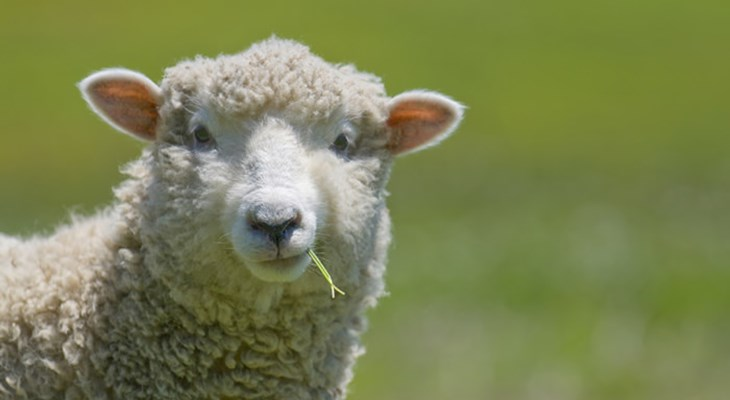
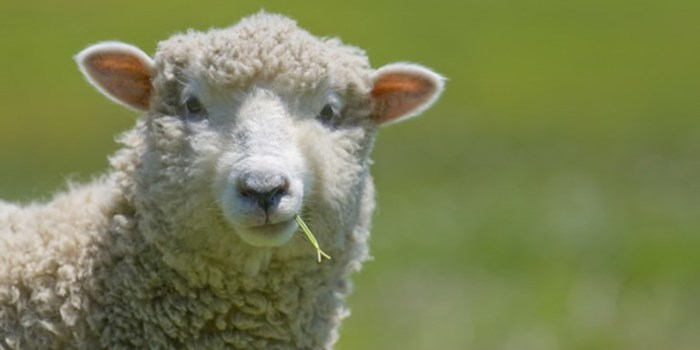
feat: add header
Add header block. Refactor code, change desing

diff --git a/src/components/Game/components/letter.jsx b/src/components/Game/components/letter.jsx
@@ -4,11 +4,11 @@ import { Draggable } from 'react-beautiful-dnd';
 
 const Container = styled.div`
   padding: 8px;
-  border: 3px solid lightgrey;
+  border: 3px solid #f3727b;
   border-radius: 50%;
   &:focus {
     outline: none;
-    border-color: red;
+    border-color: lightgreen;
   }
 
   background-color: ${props => (props.isDragging ? 'lightgreen' : 'white')};
@@ -18,6 +18,9 @@ const Container = styled.div`
   display: flex;
   justify-content: center;
   align-items: center;
+
+  font-weight: 900;
+  font-size: 20px;
 `;
 
 export default class Letter extends React.Component {
@@ -25,16 +28,14 @@ export default class Letter extends React.Component {
     return (
       <Draggable draggableId={this.props.letter.id} index={this.props.index}>
         {(provided, snapshot) => (
-          <div style={{marginLeft: this.props.letter.width + 'vw', marginRight: this.props.letter.width + 'vw' }}>
-            <Container
-              {...provided.draggableProps}
-              {...provided.dragHandleProps}
-              ref={provided.innerRef}
-              isDragging={snapshot.isDragging}
-            >
-              {this.props.letter.content}
-            </Container>
-          </div>
+          <Container
+            {...provided.draggableProps}
+            {...provided.dragHandleProps}
+            ref={provided.innerRef}
+            isDragging={snapshot.isDragging}
+          >
+            {this.props.letter.content}
+          </Container>
         )}
       </Draggable>
     );

diff --git a/src/components/Game/Game.jsx b/src/components/Game/Game.jsx
@@ -17,6 +17,11 @@ const GameBlock = styled.div`
   align-items: center;
 `;
 
+const ImageBlock = styled.div`
+  border: 12px solid #f3727b;
+  height: 120px;
+`;
+
 export class Game extends React.Component {
   state = initialData
   imageState = ImagesData
@@ -99,7 +104,9 @@ export class Game extends React.Component {
   render() {
     return (
       <GameBlock>
-        <div><img width='240px' src={this.imageState.images.sheep.source} alt={this.imageState.images.sheep.title}></img></div>
+        <ImageBlock>
+          <img width='243px' src={this.imageState.images.sheep.source} alt={this.imageState.images.sheep.title} />
+        </ImageBlock>
         <DragDropContext onDragStart={this.onDragStart} onDragEnd={this.onDragEnd}>
           <Container>
             {this.state.columnOrder.map((columnId) => {

diff --git a/src/components/Header/Header.jsx b/src/components/Header/Header.jsx
@@ -1,0 +1,28 @@
+import React from 'react';
+import styled from 'styled-components'
+import gameLogo from '../assets/images/game-logo.jpg'
+
+const HeaderBlock = styled.div`
+  display: flex;
+  flex-direction: row;
+  justify-content: space-between;
+  align-items: center;
+`;
+
+const HeaderElement = styled.div`
+  padding: 10px 15px 15px
+`;
+
+export class Header extends React.Component {
+  render() {
+    return (
+      <HeaderBlock>
+        <HeaderElement>
+          <a href='.'>
+            <img width='80px' src={gameLogo} alt='gameLogo' />
+          </a>
+        </HeaderElement>
+      </HeaderBlock>
+    );
+  }
+};

diff --git a/src/App.jsx b/src/App.jsx
@@ -1,14 +1,25 @@
 import React from 'react';
+import styled from 'styled-components'
+import { Header } from './components/Header/Header';
 import { Game } from './components/Game/Game';
 import { Footer } from './components/Footer/Footer';
+
+const BigBlock = styled.div`
+  height: 100vh;
+  display: flex;
+  flex-direction: column;
+  justify-content: space-between;
+`;
+
 
 export class App extends React.Component {
   render() {
     return (
-      <div>
+      <BigBlock>
+        <Header />
         <Game />
         <Footer />
-      </div>
+      </BigBlock>
     );
   }
 };

diff --git a/src/components/Game/components/column.jsx b/src/components/Game/components/column.jsx
@@ -6,13 +6,14 @@ import Letter from './letter';
 const Container = styled.div`
   display: flex;
   flex-direction: column;
-  border: 2px solid lightgrey;
+  border: 2px solid #f3727b;
   padding: 12px;
   margin: 8px;
 `;
 const Title = styled.h3`
   padding: 8px;
   text-align: center;
+  color: #0ad8ff;
 `;
 const LetterList = styled.div`
   transition: background-color 0.2s ease;

diff --git a/src/components/Footer/Footer.jsx b/src/components/Footer/Footer.jsx
@@ -8,6 +8,9 @@ const FooterBlock = styled.div`
   flex-direction: row;
   justify-content: center;
   align-items: center;
+  background-color: #f3727b;
+  padding-top: 15px;
+  padding-bottom: 15px;
 `;
 
 const FooterElement = styled.div`
